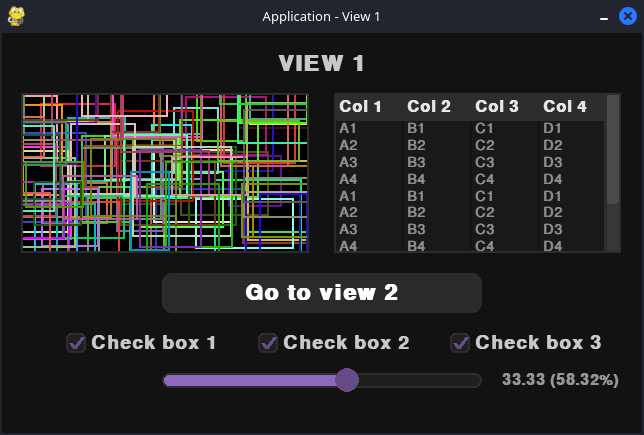
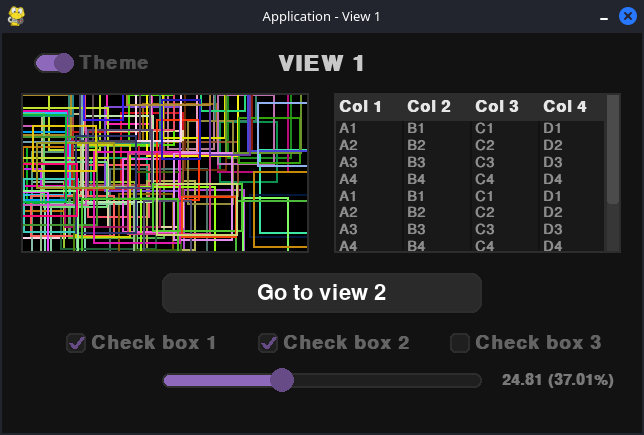
Graph theme bug fixed

diff --git a/main.py b/main.py
@@ -141,7 +141,7 @@ class View2(View):
         panel1.addElement(combobox3, ['65%', '5%'])
         # image
         img = Image(self, "src/img1.jpg")
-        panel1.addElement(img, ['10%', '20%', '35%', '75%'])
+        panel1.addElement(img, ['5%', '20%', '45%', '75%'])
         # graph
         graph = Graph(self)
         graph.setFigureBuilderFunc(lambda f: Graph.builderFunc_pieGraph(
@@ -150,7 +150,7 @@ class View2(View):
             [1, 2, 3, 5],
             (0, 0.2, 0, 0)
         ))
-        panel1.addElement(graph, ['45%', '8%', '45%', '90%'])
+        panel1.addElement(graph, ['50%', '8%', '45%', '90%'])
 
         # panel for tab 2
         panel2 = Panel(self, None)

diff --git a/SimpleApp/utils.py b/SimpleApp/utils.py
@@ -99,6 +99,8 @@ def drawGraph(fig, dark=False):
     matplotlib.use("Agg")
     if dark == "dark":
         plt.style.use('dark_background')
+    else:
+        plt.style.use('default')
 
     canvas = agg.FigureCanvasAgg(fig)
     canvas.draw()
